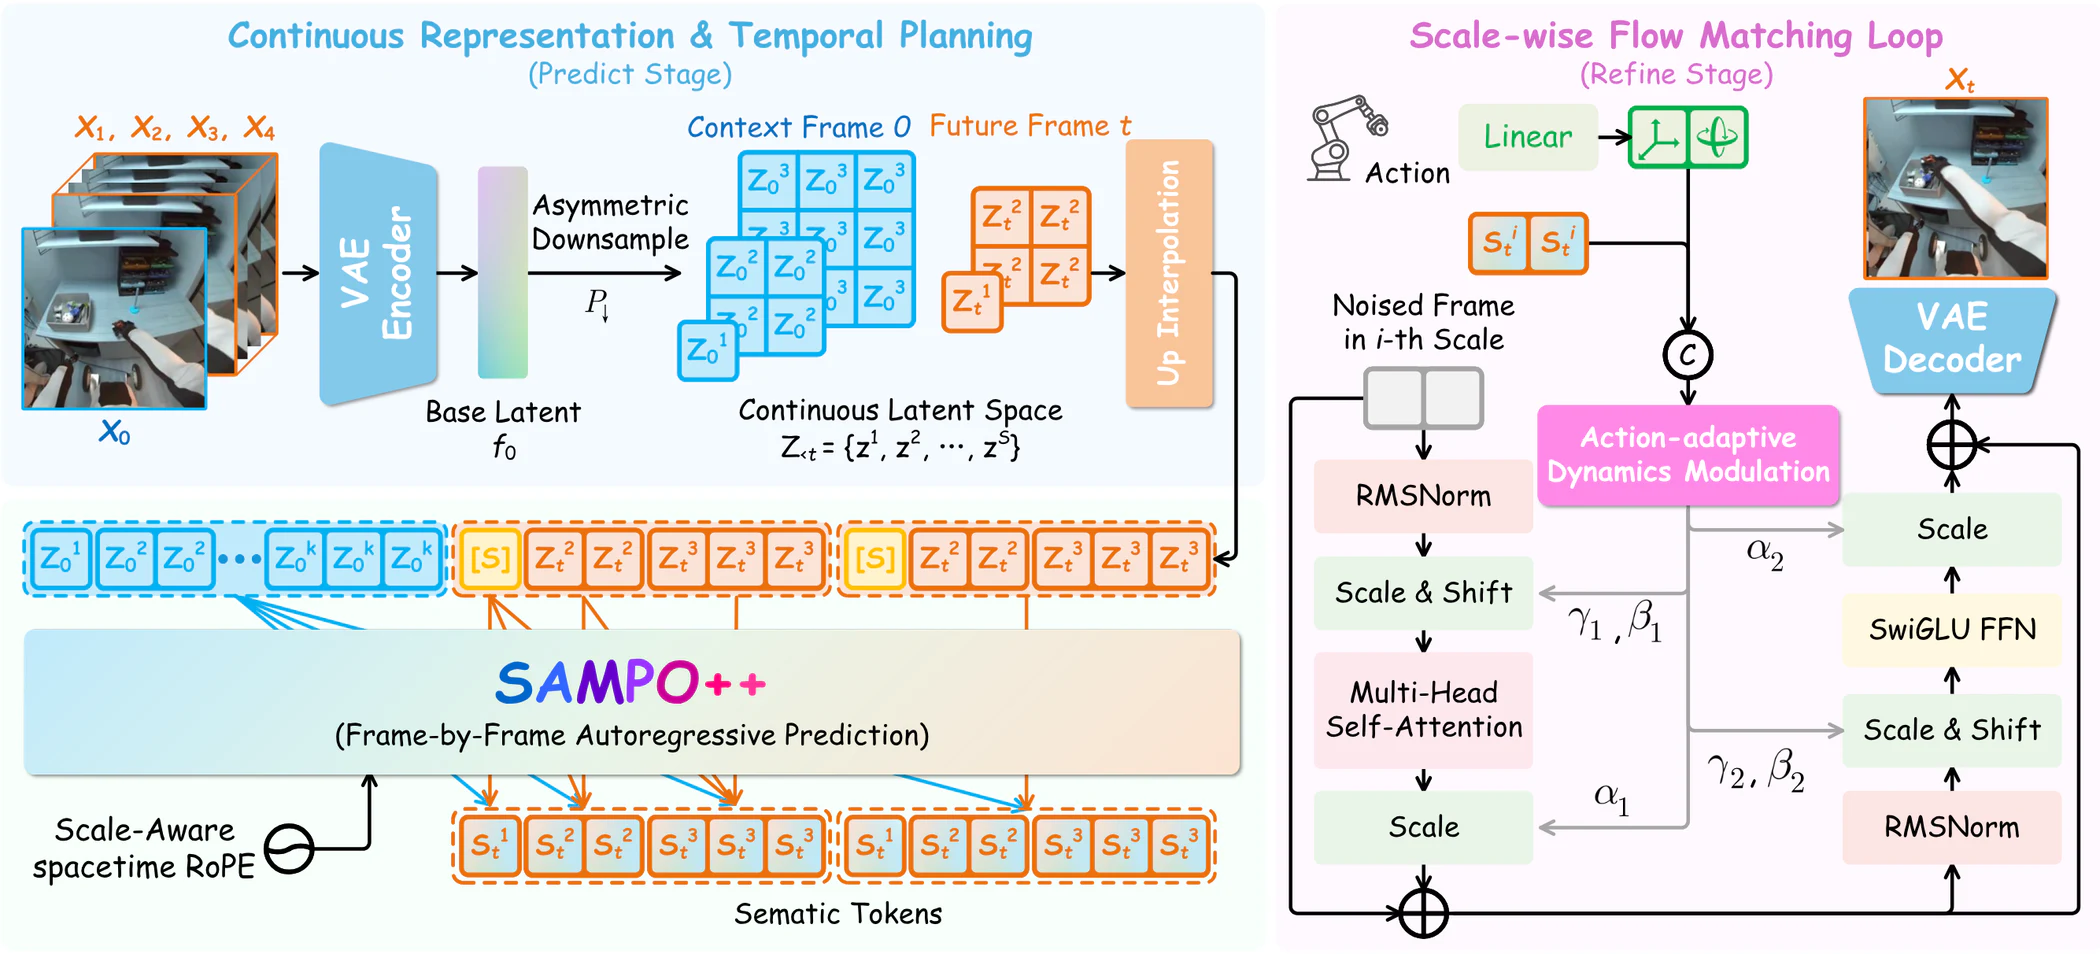
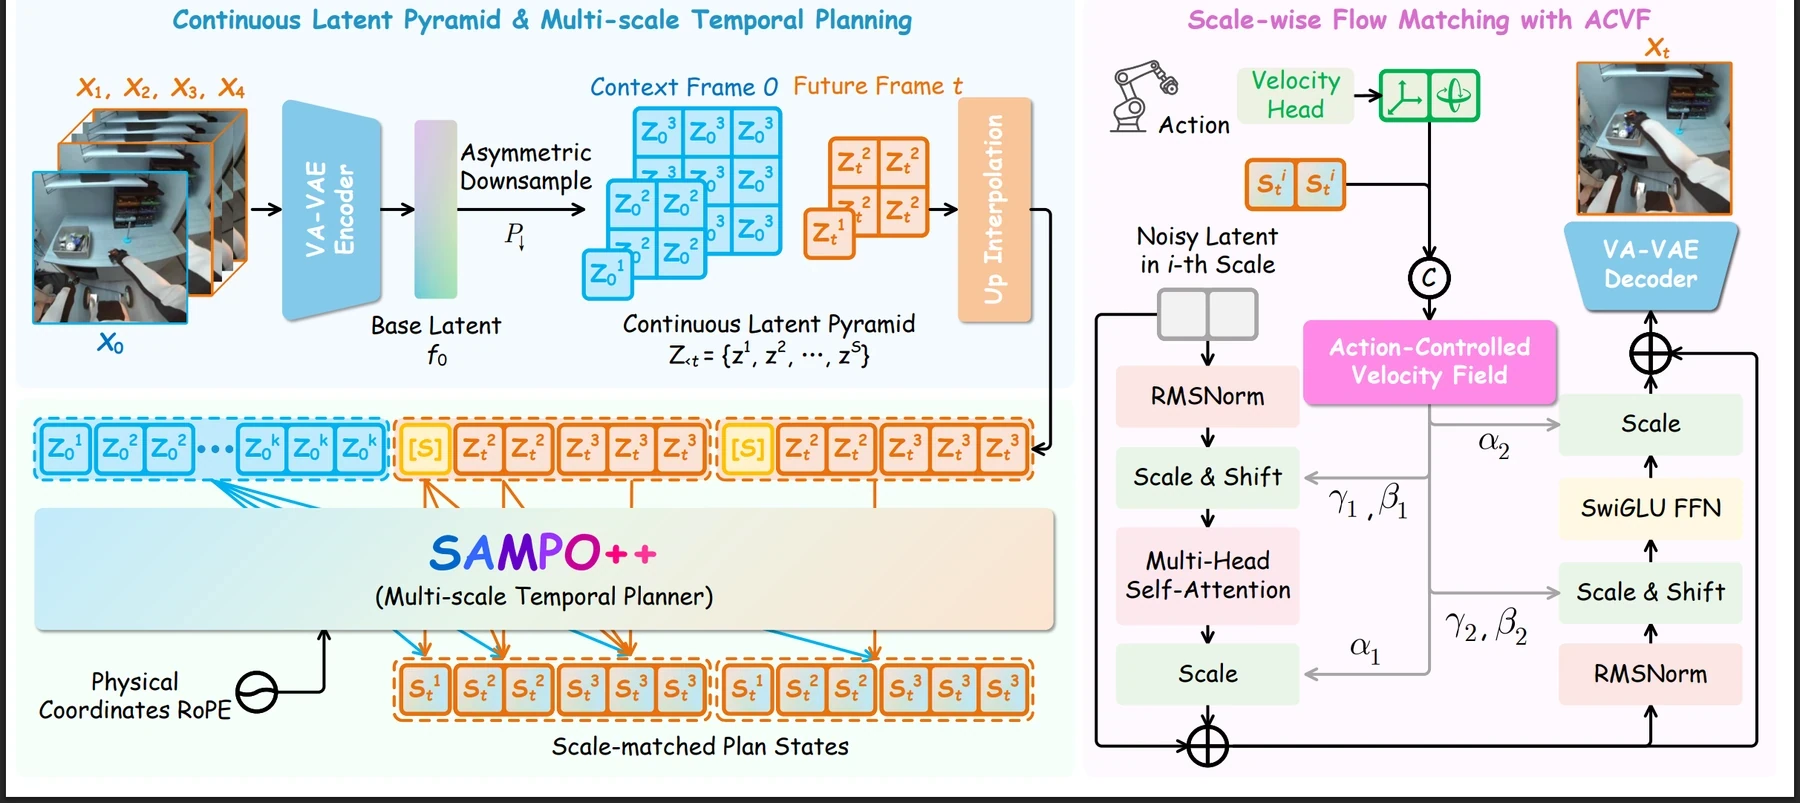
Update figures and add VLA demos

diff --git a/project-page/index.html b/project-page/index.html
@@ -817,26 +817,28 @@
         </div>
         <div class="video-shell">
           <div class="episode-list" role="tablist" aria-label="VLA demo selector">
-            <button class="episode-button" type="button" data-episode="0" aria-selected="true">Demo 1 - eggplant basket</button>
-            <button class="episode-button" type="button" data-episode="1" aria-selected="false">Demo 2 - eggplant basket</button>
+            <button class="episode-button" type="button" data-episode="0" aria-selected="true">Demo 1 - VLA rollout</button>
+            <button class="episode-button" type="button" data-episode="1" aria-selected="false">Demo 2 - VLA rollout</button>
             <button class="episode-button" type="button" data-episode="2" aria-selected="false">Demo 3 - eggplant basket</button>
-            <button class="episode-button" type="button" data-episode="3" aria-selected="false">Demo 4 - spoon on towel</button>
-            <button class="episode-button" type="button" data-episode="4" aria-selected="false">Demo 5 - spoon on towel</button>
+            <button class="episode-button" type="button" data-episode="3" aria-selected="false">Demo 4 - eggplant basket</button>
+            <button class="episode-button" type="button" data-episode="4" aria-selected="false">Demo 5 - eggplant basket</button>
             <button class="episode-button" type="button" data-episode="5" aria-selected="false">Demo 6 - spoon on towel</button>
+            <button class="episode-button" type="button" data-episode="6" aria-selected="false">Demo 7 - spoon on towel</button>
+            <button class="episode-button" type="button" data-episode="7" aria-selected="false">Demo 8 - spoon on towel</button>
           </div>
           <article class="video-card">
             <div class="video-pair">
               <div class="video-panel">
-                <video id="real-video" controls muted playsinline preload="metadata" src="assets/vla/widowx_put_eggplant_in_basket/ep0019/ep0019_True.mp4"></video>
+                <video id="real-video" controls muted playsinline preload="metadata" src="assets/vla/pami_demos/demo1/real.mp4"></video>
                 <div class="video-label"><span>Real rollout</span><span id="real-name">Demo 1</span></div>
               </div>
               <div class="video-panel">
-                <video id="pred-video" controls muted playsinline preload="metadata" src="assets/vla/widowx_put_eggplant_in_basket/ep0019/pred_video_all.mp4"></video>
+                <video id="pred-video" controls muted playsinline preload="metadata" src="assets/vla/pami_demos/demo1/pred.mp4"></video>
                 <div class="video-label"><span>SAMPO++ predicted rollout</span><span id="pred-name">Demo 1</span></div>
               </div>
             </div>
             <div class="video-body">
-              <h3 id="episode-title">Demo 1 - put eggplant into yellow basket</h3>
+              <h3 id="episode-title">Demo 1 - VLA rollout</h3>
               <p id="episode-desc">Real execution is paired with the predicted future generated by SAMPO++ from VLA action prediction.</p>
             </div>
           </article>
@@ -900,38 +902,50 @@
   <script>
     const episodes = [
       {
-        title: "Demo 1 - put eggplant into yellow basket",
+        title: "Demo 1 - VLA rollout",
         name: "Demo 1",
-        real: "assets/vla/widowx_put_eggplant_in_basket/ep0019/ep0019_True.mp4",
-        pred: "assets/vla/widowx_put_eggplant_in_basket/ep0019/pred_video_all.mp4",
+        real: "assets/vla/pami_demos/demo1/real.mp4",
+        pred: "assets/vla/pami_demos/demo1/pred.mp4",
       },
       {
-        title: "Demo 2 - put eggplant into yellow basket",
+        title: "Demo 2 - VLA rollout",
         name: "Demo 2",
-        real: "assets/vla/widowx_put_eggplant_in_basket/ep0025/ep0025_True.mp4",
-        pred: "assets/vla/widowx_put_eggplant_in_basket/ep0025/pred_video_all.mp4",
+        real: "assets/vla/pami_demos/demo2/real.mp4",
+        pred: "assets/vla/pami_demos/demo2/pred.mp4",
       },
       {
         title: "Demo 3 - put eggplant into yellow basket",
         name: "Demo 3",
+        real: "assets/vla/widowx_put_eggplant_in_basket/ep0019/ep0019_True.mp4",
+        pred: "assets/vla/widowx_put_eggplant_in_basket/ep0019/pred_video_all.mp4",
+      },
+      {
+        title: "Demo 4 - put eggplant into yellow basket",
+        name: "Demo 4",
+        real: "assets/vla/widowx_put_eggplant_in_basket/ep0025/ep0025_True.mp4",
+        pred: "assets/vla/widowx_put_eggplant_in_basket/ep0025/pred_video_all.mp4",
+      },
+      {
+        title: "Demo 5 - put eggplant into yellow basket",
+        name: "Demo 5",
         real: "assets/vla/widowx_put_eggplant_in_basket/ep0030/ep0030_True.mp4",
         pred: "assets/vla/widowx_put_eggplant_in_basket/ep0030/pred_video_all.mp4",
       },
       {
-        title: "Demo 4 - put the spoon on the towel",
-        name: "Demo 4",
+        title: "Demo 6 - put the spoon on the towel",
+        name: "Demo 6",
         real: "assets/vla/widowx_spoon_on_towel/ep0026/ep0026_True.mp4",
         pred: "assets/vla/widowx_spoon_on_towel/ep0026/pred_video_all.mp4",
       },
       {
-        title: "Demo 5 - put the spoon on the towel",
-        name: "Demo 5",
+        title: "Demo 7 - put the spoon on the towel",
+        name: "Demo 7",
         real: "assets/vla/widowx_spoon_on_towel/ep0033/ep0033_True.mp4",
         pred: "assets/vla/widowx_spoon_on_towel/ep0033/pred_video_all.mp4",
       },
       {
-        title: "Demo 6 - put the spoon on the towel",
-        name: "Demo 6",
+        title: "Demo 8 - put the spoon on the towel",
+        name: "Demo 8",
         real: "assets/vla/widowx_spoon_on_towel/ep0038/ep0038_True.mp4",
         pred: "assets/vla/widowx_spoon_on_towel/ep0038/pred_video_all.mp4",
       },